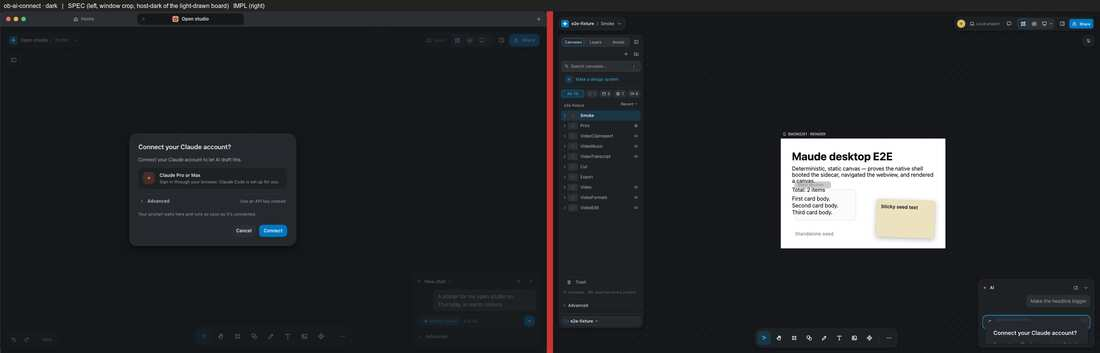
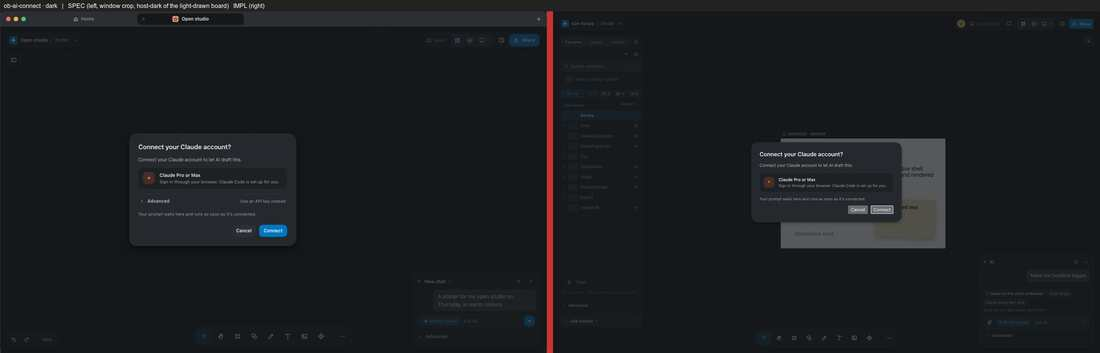
P8-C3-ai stage D (01 02 05): IMPL re-shot light + dark - cf-ai-drafting, cf-ai-done, cf-undo-before, cf-undo-ai, ob-ai-connect, ob-first-draw, ob-sig-draw, ob-edge-ai-missing, es-canvas-three

diff --git a/.ai/plans/notes/v2-evidence/phase8-fidelity/02-onboarding/INDEX.md b/.ai/plans/notes/v2-evidence/phase8-fidelity/02-onboarding/INDEX.md
@@ -53,9 +53,9 @@ Re-shoot of the IMPL side on `feat/maude-v2` tip 2739edc35 (stage C round 2 merg
 | `ob-first-launch` | re-shot | re-shot | IMPL re-shot on the current tip; SPEC re-rendered |
 | `ob-signin-browser` | re-shot | re-shot | IMPL re-shot on the current tip; SPEC re-rendered |
 | `ob-home-new` | re-shot | re-shot | IMPL re-shot on the current tip; SPEC re-rendered |
-| `ob-ai-connect` | re-shot | re-shot | IMPL re-shot on the current tip; SPEC re-rendered |
-| `ob-first-draw` | re-shot | re-shot | IMPL re-shot on the current tip; SPEC re-rendered |
-| `ob-sig-draw` | re-shot (state not reached) | re-shot (state not reached) | the motion study has no app counterpart; the pair still shows the fake-agent drafts re-shot (same frames as cf-ai-drafting / cf-ai-done) |
+| `ob-ai-connect` | re-shot | re-shot | IMPL re-shot on the current tip; SPEC re-rendered **Round 3 (p8-c3-ai):** IMPL re-shot after the AI-on-canvas / chat fixes; SPEC reused. |
+| `ob-first-draw` | re-shot | re-shot | IMPL re-shot on the current tip; SPEC re-rendered **Round 3 (p8-c3-ai):** IMPL re-shot after the AI-on-canvas / chat fixes; SPEC reused. |
+| `ob-sig-draw` | re-shot (state not reached) | re-shot (state not reached) | the motion study has no app counterpart; the pair still shows the fake-agent drafts re-shot (same frames as cf-ai-drafting / cf-ai-done) **Round 3 (p8-c3-ai):** IMPL re-shot after the AI-on-canvas / chat fixes; SPEC reused. |
 | `ob-invite-page` | unreachable | unreachable | a web page on cloud.maude.sh, not part of the app — no frame |
 | `ob-invite-landed` | re-shot | re-shot | IMPL re-shot on the current tip; SPEC re-rendered |
 | `ob-home-team` | re-shot | re-shot | IMPL re-shot on the current tip; SPEC re-rendered |
@@ -70,5 +70,5 @@ Re-shoot of the IMPL side on `feat/maude-v2` tip 2739edc35 (stage C round 2 merg
 | `ob-edge-timeout` | re-shot | re-shot | IMPL re-shot on the current tip; SPEC re-rendered |
 | `ob-edge-other-mac` | re-shot | re-shot | IMPL re-shot on the current tip; SPEC re-rendered |
 | `ob-edge-accounts` | re-shot | re-shot | IMPL re-shot on the current tip; SPEC re-rendered |
-| `ob-edge-ai-missing` | re-shot | re-shot | IMPL re-shot on the current tip; SPEC re-rendered |
+| `ob-edge-ai-missing` | re-shot | re-shot | IMPL re-shot on the current tip; SPEC re-rendered **Round 3 (p8-c3-ai):** IMPL re-shot after the AI-on-canvas / chat fixes; SPEC reused. |
 | `ob-edge-whats-new` | re-shot | re-shot | IMPL re-shot on the current tip; SPEC re-rendered |

diff --git a/.ai/plans/notes/v2-evidence/phase8-fidelity/01-create-flow/INDEX.md b/.ai/plans/notes/v2-evidence/phase8-fidelity/01-create-flow/INDEX.md
@@ -48,12 +48,12 @@ Re-shoot of the IMPL side on `feat/maude-v2` tip 2739edc35 (stage C round 2 merg
 | id | light | dark | note |
 | --- | --- | --- | --- |
 | `cf-home-prompt` | re-shot | re-shot | IMPL re-shot on the current tip; SPEC reused |
-| `cf-ai-drafting` | re-shot | re-shot | IMPL re-shot on the current tip; SPEC reused |
-| `cf-ai-done` | re-shot | re-shot | IMPL re-shot on the current tip; SPEC reused |
+| `cf-ai-drafting` | re-shot | re-shot | IMPL re-shot on the current tip; SPEC reused **Round 3 (p8-c3-ai):** IMPL re-shot after the AI-on-canvas / chat fixes; SPEC reused. |
+| `cf-ai-done` | re-shot | re-shot | IMPL re-shot on the current tip; SPEC reused **Round 3 (p8-c3-ai):** IMPL re-shot after the AI-on-canvas / chat fixes; SPEC reused. |
 | `cf-select-tweak` | re-shot | re-shot | IMPL re-shot on the current tip; SPEC reused |
 | `cf-sticky-comment` | re-shot | re-shot | IMPL re-shot on the current tip; SPEC reused |
-| `cf-undo-before` | re-shot | re-shot | IMPL re-shot on the current tip; SPEC reused |
-| `cf-undo-ai` | re-shot (state not reached) | re-shot (state not reached) | stage A reason stands: the fake agent writes the canvas file directly, not through the edit-op stack; stage C round 2 lists "undo of an AI edit through the shared stack" as still open (fix-navcreate.md) — no new state to reach |
+| `cf-undo-before` | re-shot | re-shot | IMPL re-shot on the current tip; SPEC reused **Round 3 (p8-c3-ai):** IMPL re-shot after the AI-on-canvas / chat fixes; SPEC reused. |
+| `cf-undo-ai` | re-shot (state not reached) | re-shot (state not reached) | stage A reason stands: the fake agent writes the canvas file directly, not through the edit-op stack; stage C round 2 lists "undo of an AI edit through the shared stack" as still open (fix-navcreate.md) — no new state to reach **Round 3 (p8-c3-ai):** IMPL re-shot after the AI-on-canvas / chat fixes; SPEC reused. |
 | `cf-blank` | re-shot | re-shot | IMPL re-shot on the current tip; SPEC reused |
 | `cf-add-artboard` | re-shot | re-shot | IMPL re-shot on the current tip; SPEC reused |
 | `cf-duplicate-width` | re-shot | re-shot | IMPL re-shot on the current tip; SPEC reused |

diff --git a/.ai/plans/notes/v2-evidence/phase8-fidelity/05-empty-states/INDEX.md b/.ai/plans/notes/v2-evidence/phase8-fidelity/05-empty-states/INDEX.md
@@ -53,7 +53,7 @@ Re-shoot of the IMPL side on `feat/maude-v2` tip 2739edc35 (stage C round 2 merg
 | `es-project-new` | re-shot | re-shot | IMPL re-shot on the current tip; SPEC reused |
 | `es-canvas-ai` | re-shot | re-shot | IMPL re-shot on the current tip; SPEC reused |
 | `es-landing` | re-shot | re-shot | IMPL re-shot on the current tip; SPEC reused |
-| `es-canvas-three` | re-shot | re-shot | IMPL re-shot on the current tip; SPEC reused |
+| `es-canvas-three` | re-shot | re-shot | IMPL re-shot on the current tip; SPEC reused **Round 3 (p8-c3-ai):** IMPL re-shot after the AI-on-canvas / chat fixes; SPEC reused. |
 | `es-artboard-new` | re-shot | re-shot | IMPL re-shot on the current tip; SPEC reused |
 | `es-panels-canvas` | re-shot | re-shot | IMPL re-shot on the current tip; SPEC reused |
 | `es-panels-make` | re-shot | re-shot | IMPL re-shot on the current tip; SPEC reused |
